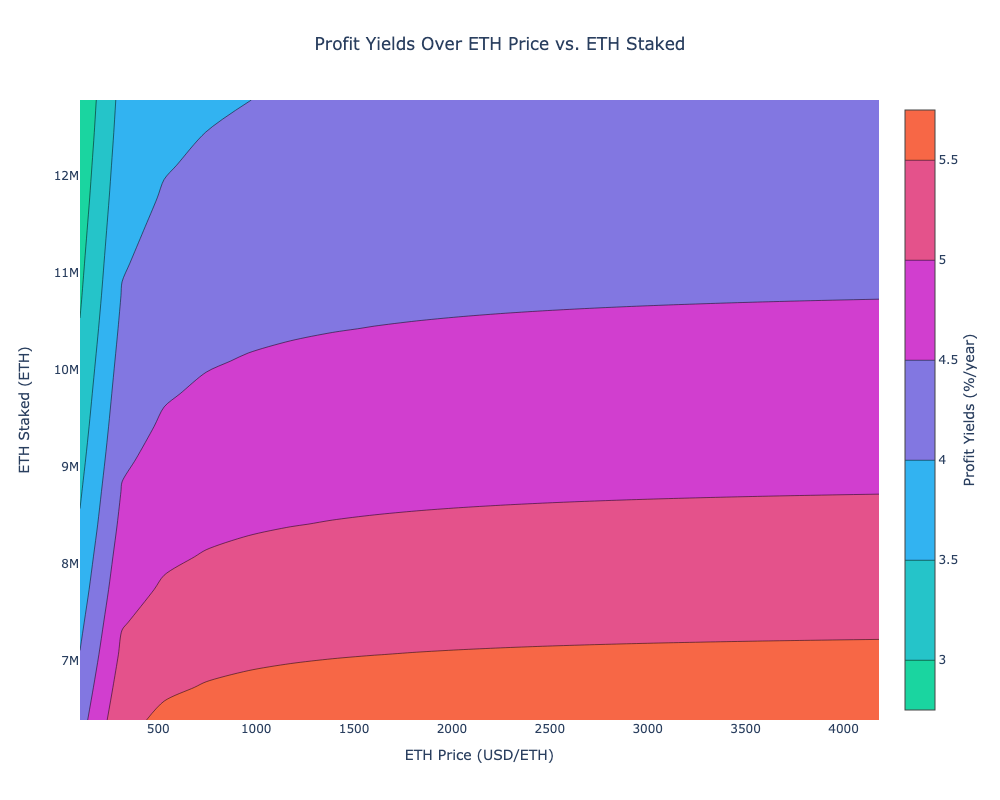
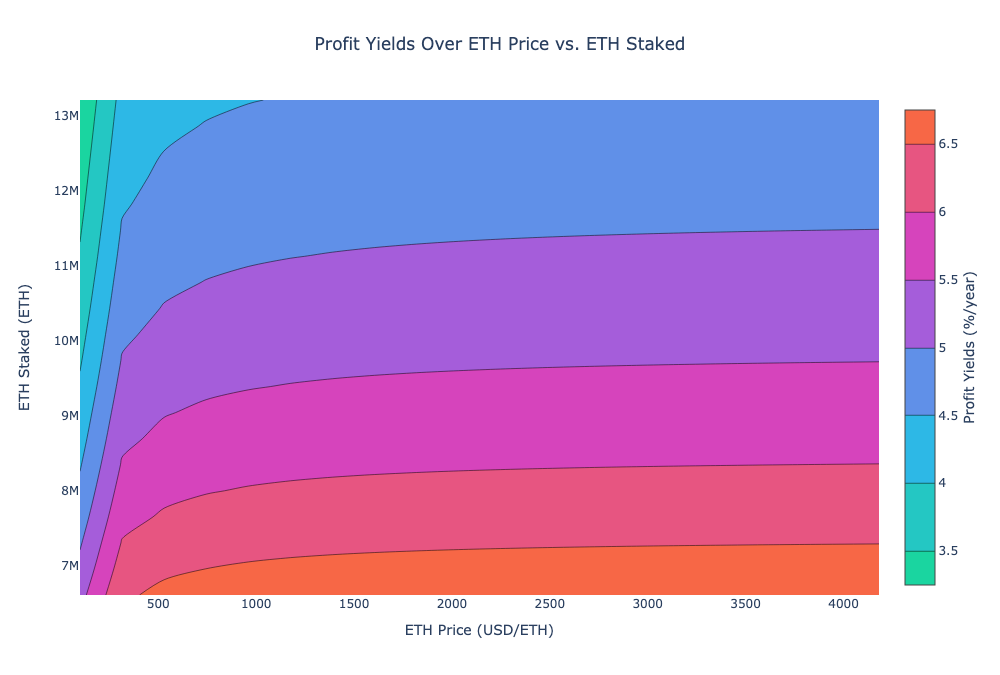
Add MEV param

diff --git a/model/system_parameters.py b/model/system_parameters.py
@@ -35,7 +35,7 @@ from model.utils import default
 from data.historical_values import (
     eth_price_mean,
     eth_gas_price_mean,
-    eth_block_rewards_mean
+    eth_block_rewards_mean,
 )
 
 
@@ -205,7 +205,7 @@ class Parameters:
         ]
     )
     """
-    A process that returns the number of new validators per epoch.
+    A process that returns the number of new validators added to the activation queue per epoch.
 
     Used if model not driven using `eth_staked_process`.
 
@@ -215,9 +215,26 @@ class Parameters:
     # Ethereum system parameters
     daily_pow_issuance: List[ETH] = default([eth_block_rewards_mean])
     """
-    The average daily Proof of Work issuance in ETH.
+    The average daily Proof-of-Work issuance in ETH.
 
     See https://etherscan.io/chart/blockreward
+    """
+
+    realized_mev_per_block: List[ETH] = default([0])
+    """
+    By default the realized Miner Extractable Value (MEV) per block is set to zero
+    to only consider the influence of Proof-of-Stake (PoS) incentives on validator yields.
+    
+    To investigate the influence of MEV on validator yields,
+    set this parameter to a reasonable value for the realized MEV per block / slot.
+    
+    The realized MEV per block is allocated to miners pre-PoS and validators post-PoS,
+    increasing the effective yields of those miners / validators
+    that use MEV clients such as Flashbots' MEV-geth.
+    
+    An example of a valid assumption for the realized MEV
+    would be the 30-day realized MEV from https://explore.flashbots.net/,
+    this value can then be calculated per-block to set the `realized_mev_per_block` parameter.
     """
 
     # Parameters from the Eth2 specification
@@ -361,9 +378,12 @@ class Parameters:
 
     # EIP1559 transaction pricing parameters
     base_fee_process: List[Callable[[Run, Timestep], Gwei_per_Gas]] = default(
-        [lambda _run, _timestep: 0.7 * eth_gas_price_mean]  # Gwei per gas
+        # TODO: confirm value using historical data
+        [lambda _run, _timestep: 30]  # Gwei per gas
     )
     """
+    TODO: update description with new assumptions
+    
     The base fee burned, in Gwei per gas, for each transaction.
 
     An average of approx. 100 Gwei per gas expected to be set as transaction fee cap,
@@ -380,9 +400,11 @@ class Parameters:
     """
 
     priority_fee_process: List[Callable[[Run, Timestep], Gwei_per_Gas]] = default(
-        [lambda _run, _timestep: 0.3 * eth_gas_price_mean]  # Gwei per gas
+        [lambda _run, _timestep: 2]  # Gwei per gas
     )
     """
+    TODO: update description with new assumptions
+    
     EIP1559 transaction pricing priority fee, in Gwei per gas.
 
     Due to MEV, average priority fee expected to be higher than usual as bid for inclusion in blockscpace market. We assume 30% of the fee cap.

diff --git a/experiments/notebooks/visualizations/__init__.py b/experiments/notebooks/visualizations/__init__.py
@@ -39,6 +39,7 @@ legend_state_variable_name_mapping = {
     "block_proposer_reward_eth": "Block Proposer Reward",
     "sync_reward_eth": "Sync Reward",
     "total_priority_fee_to_validators_eth": "Priority Fees",
+    "total_realized_mev_to_validators": "Realized MEV",
     "supply_inflation_pct": "ETH Supply inflation",
     "total_revenue_yields_pct": "Total Revenue Yields",
     "total_profit_yields_pct": "Total Profit Yields",
@@ -1083,8 +1084,7 @@ def plot_yields_per_subset_subplots(df, subplot_titles=[]):
     return fig
 
 
-def plot_yields_per_subset(df):
-    scenario_names = {0: "Normal Adoption", 1: "Low Adoption", 2: "High Adoption"}
+def plot_yields_per_subset(df, scenario_names={0: "Normal Adoption", 1: "Low Adoption", 2: "High Adoption"}):
     color_cycle = itertools.cycle(cadlabs_colorway_sequence)
 
     fig = go.Figure()
@@ -1380,7 +1380,17 @@ def plot_figure_widget_revenue_yields_over_time_foreach_subset(df):
     return widgets.VBox([container, fig])
 
 
-def plot_revenue_yields_rolling_mean(df_rolling):
+def plot_revenue_yields_rolling_mean(df):
+    
+    rolling_window = df.groupby('timestamp')['total_revenue_yields_pct'].mean().rolling(7)
+    df_rolling = pd.DataFrame()
+    df_rolling['rolling_std'] = rolling_window.std()
+    df_rolling['rolling_mean'] = rolling_window.mean()
+    df_rolling['max'] = df.groupby('timestamp')['total_revenue_yields_pct'].max()
+    df_rolling['min'] = df.groupby('timestamp')['total_revenue_yields_pct'].min()
+    df_rolling = df_rolling.fillna(method="ffill")
+    df_rolling = df_rolling.reset_index()
+    
     fig = go.Figure(
         [
             go.Scatter(
@@ -1388,10 +1398,10 @@ def plot_revenue_yields_rolling_mean(df_rolling):
                 x=df_rolling["timestamp"],
                 y=df_rolling["rolling_mean"],
                 mode="lines",
-                line=dict(color="rgb(31, 119, 180)"),
+#                 line=dict(color="rgb(31, 119, 180)"),
             ),
             go.Scatter(
-                name="Upper Bound (max)",
+                name="Max",
                 x=df_rolling["timestamp"],
                 y=df_rolling["max"],
                 mode="lines",
@@ -1400,7 +1410,7 @@ def plot_revenue_yields_rolling_mean(df_rolling):
                 showlegend=False,
             ),
             go.Scatter(
-                name="Lower Bound (min)",
+                name="Min",
                 x=df_rolling["timestamp"],
                 y=df_rolling["min"],
                 marker=dict(color="#444"),

diff --git a/model/parts/ethereum_system.py b/model/parts/ethereum_system.py
@@ -124,11 +124,49 @@ def policy_network_issuance(
     }
 
 
+def policy_mev(params, substep, state_history, previous_state) -> typing.Dict[str, ETH]:
+    """
+    ## Miner Extractable Value (MEV) Policy
+
+    MEV is allocated to miners pre Proof-of-Stake and validators post Proof-of-Stake,
+    using the `realized_mev_per_block` System Parameter.
+
+    By default `realized_mev_per_block` is set zero, to only consider the
+    influence of Proof-of-Stake (PoS) incentives on validator yields.
+
+    See [ASSUMPTIONS.md](ASSUMPTIONS.md) document for further details.
+    """
+    # Parameters
+    dt = params["dt"]
+    realized_mev_per_block = params["realized_mev_per_block"]
+
+    # State Variables
+    stage = Stage(previous_state["stage"])
+
+    if stage in [Stage.PROOF_OF_STAKE]:
+        total_realized_mev_to_miners = 0
+        # Allocate realized MEV to validators post Proof-of-Stake
+        total_realized_mev_to_validators = (
+            realized_mev_per_block * constants.slots_per_epoch * dt
+        )
+    else:  # Stage is pre Proof-of-Stake
+        # Allocate realized MEV to miners pre Proof-of-Stake
+        total_realized_mev_to_miners = (
+            realized_mev_per_block * constants.pow_blocks_per_epoch * dt
+        )
+        total_realized_mev_to_validators = 0
+
+    return {
+        "total_realized_mev_to_miners": total_realized_mev_to_miners,
+        "total_realized_mev_to_validators": total_realized_mev_to_validators,
+    }
+
+
 def policy_eip1559_transaction_pricing(
     params, substep, state_history, previous_state
 ) -> typing.Dict[str, Gwei]:
     """
-    ## EIP1559 Transaction Pricing Mechanism
+    ## EIP1559 Transaction Pricing Policy
 
     A transaction pricing mechanism that includes fixed-per-block network fee
     that is burned and dynamically expands/contracts block sizes to deal with transient congestion.
@@ -179,7 +217,7 @@ def policy_eip1559_transaction_pricing(
     else:  # stage is Stage.PROOF_OF_STAKE
         gas_used = constants.slots_per_epoch * gas_target  # Gas
 
-    # Calculate total base fee, and priority fee to validators
+    # Calculate the total base fee and priority fee
     total_base_fee = gas_used * base_fee_per_gas  # Gwei
     total_priority_fee = gas_used * avg_priority_fee_per_gas  # Gwei
 

diff --git a/model/state_variables.py b/model/state_variables.py
@@ -125,9 +125,15 @@ class StateVariables:
     total_base_fee: Gwei = 0
     """The total base fee burned for all transactions included in blockspace"""
     total_priority_fee_to_miners: Gwei = 0
-    """"The total priority fee to miners pre-merge for all transactions included in blockspace"""
+    """"The total priority fee to miners pre Proof-of-Stake for all transactions included in blockspace"""
     total_priority_fee_to_validators: Gwei = 0
-    """"The total priority fee to validators post-merge for all transactions included in blockspace"""
+    """"The total priority fee to validators post Proof-of-Stake for all transactions included in blockspace"""
+
+    # Miner Extractable Value (MEV) state variables
+    total_realized_mev_to_miners: ETH = 0
+    """The total realized MEV to miners pre Proof-of-Stake"""
+    total_realized_mev_to_validators: ETH = 0
+    """The total realized MEV to validators post Proof-of-Stake"""
 
     # System metric state variables
     validator_eth_staked: np.ndarray = np.zeros(
@@ -152,7 +158,6 @@ class StateVariables:
     )
     """The total annualized profit (income received - costs) yields (percentage of investment amount)
     per validator environment"""
-
     validator_count_distribution: np.ndarray = np.zeros(
         (number_of_validator_environments, 1), dtype=int
     )

diff --git a/model/parts/system_metrics.py b/model/parts/system_metrics.py
@@ -153,6 +153,9 @@ def policy_total_online_validator_rewards(
     total_priority_fee_to_validators = previous_state[
         "total_priority_fee_to_validators"
     ]
+    total_realized_mev_to_validators = previous_state[
+        "total_realized_mev_to_validators"
+    ]
 
     # Calculate total rewards for online validators
     total_online_validator_rewards = (
@@ -160,6 +163,7 @@ def policy_total_online_validator_rewards(
         - validating_penalties
         + whistleblower_rewards
         + total_priority_fee_to_validators
+        + total_realized_mev_to_validators * constants.gwei
     )
 
     return {"total_online_validator_rewards": total_online_validator_rewards}

diff --git a/model/state_update_blocks.py b/model/state_update_blocks.py
@@ -154,6 +154,22 @@ _state_update_blocks = [
     },
     {
         "description": """
+            Miner Extractable Value (MEV)
+        """,
+        "policies": {
+            "mev": ethereum.policy_mev,
+        },
+        "variables": {
+            "total_realized_mev_to_miners": update_from_signal(
+                "total_realized_mev_to_miners"
+            ),
+            "total_realized_mev_to_validators": update_from_signal(
+                "total_realized_mev_to_validators"
+            ),
+        },
+    },
+    {
+        "description": """
             Online validator reward aggregation
         """,
         "policies": {

diff --git a/experiments/templates/time_domain_analysis.py b/experiments/templates/time_domain_analysis.py
@@ -1,7 +1,7 @@
 """
 # Time Domain Analysis
 
-Executes a time-domain simulation over a long time period of 5 years,
+Executes a time-domain simulation over a long time period of 3 years,
 over all Ethereum network upgrade stages.
 """
 
@@ -17,7 +17,7 @@ from experiments.default_experiment import experiment
 experiment = copy.deepcopy(experiment)
 
 DELTA_TIME = constants.epochs_per_day  # epochs per timestep
-SIMULATION_TIME_MONTHS = 12 * 5  # number of months
+SIMULATION_TIME_MONTHS = 12 * 3  # number of months
 TIMESTEPS = constants.epochs_per_month * SIMULATION_TIME_MONTHS // DELTA_TIME
 
 # Generate stochastic process realizations

diff --git a/model/parts/pos_incentives.py b/model/parts/pos_incentives.py
@@ -295,7 +295,7 @@ def policy_slashing(
     # State Variables
     average_effective_balance = previous_state["average_effective_balance"]
 
-    # Calculate slashing, whistleblower reward, and proposer reward for a single slashing event
+    # Calculate slashing, whistleblower, and proposer reward for a single slashing event
     slashing = Gwei(average_effective_balance // MIN_SLASHING_PENALTY_QUOTIENT)
     whistleblower_reward = Gwei(
         average_effective_balance // WHISTLEBLOWER_REWARD_QUOTIENT

diff --git a/experiments/templates/eth_price_sweep_analysis.py b/experiments/templates/eth_price_sweep_analysis.py
@@ -20,7 +20,6 @@ experiment = copy.deepcopy(experiment)
 eth_price_samples = np.linspace(start=100, stop=eth_price_max, num=50)
 
 parameter_overrides = {
-    "stage": [Stage.BEACON_CHAIN],
     "eth_price_process": [
         lambda run, _timestep: eth_price_samples[run - 1]
     ],

diff --git a/experiments/templates/eth_price_eth_staked_grid_analysis.py b/experiments/templates/eth_price_eth_staked_grid_analysis.py
@@ -24,7 +24,6 @@ sweep = generate_cartesian_product({
 })
 
 parameter_overrides = {
-    "stage": [Stage.BEACON_CHAIN],
     "eth_price_process": [
         lambda run, _timestep: sweep["eth_price_samples"][run - 1]
     ],

diff --git a/experiments/templates/genesis_eth_price_eth_staked_grid_analysis.py b/experiments/templates/genesis_eth_price_eth_staked_grid_analysis.py
@@ -25,7 +25,6 @@ sweep = generate_cartesian_product({
 })
 
 parameter_overrides = {
-    "stage": [Stage.BEACON_CHAIN],
     "eth_price_process": [
         lambda run, _timestep: sweep["eth_price_samples"][run - 1]
     ],

diff --git a/experiments/templates/eth_staked_sweep_analysis.py b/experiments/templates/eth_staked_sweep_analysis.py
@@ -24,7 +24,6 @@ eth_staked_samples = np.linspace(
 )
 
 parameter_overrides = {
-    "stage": [Stage.BEACON_CHAIN],
     "eth_staked_process": [
         lambda run, _timestep: eth_staked_samples[run - 1],
     ],
